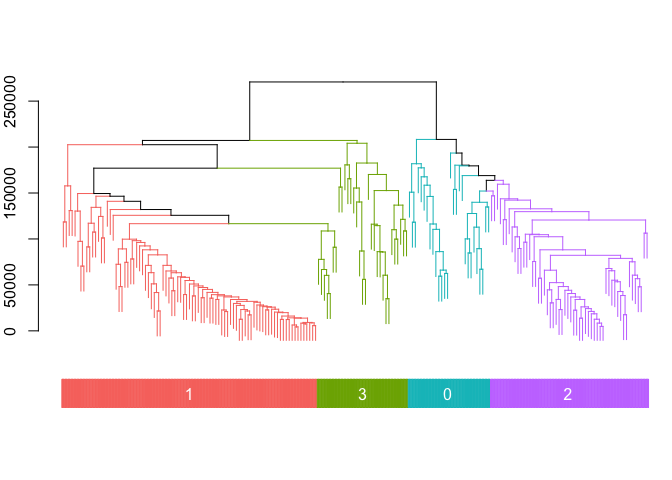
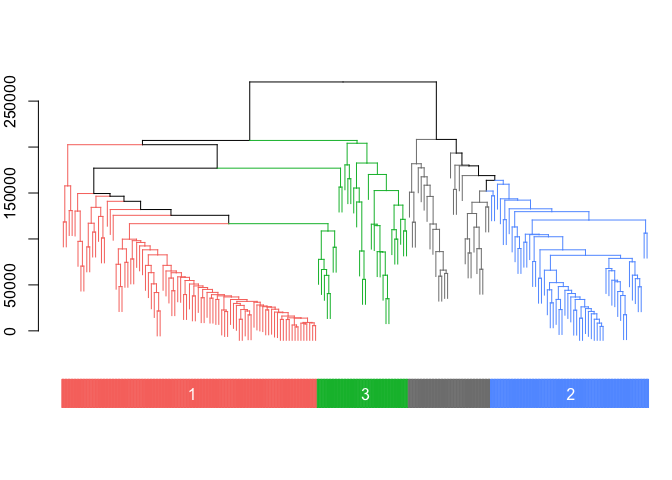
171001

diff --git a/README.md b/README.md
@@ -17,10 +17,12 @@ library(cornet)
 ls("package:cornet")
 ```
 
-    ## [1] "cluster_dat"  "cluster_mat"  "cluster_mine" "corheat"     
-    ## [5] "matoedge"
+    ## [1] "cluster_dat"  "cluster_mat"  "cluster_mine" "corgraph"    
+    ## [5] "corheat"      "matoedge"
 
 ### data
+
+-   正規化した遺伝子発現データ(行:遺伝子, 列:サンプル)
 
 ``` r
 # data: normalized fpkm
@@ -47,7 +49,7 @@ dat[1:6,1:6]; dim(dat)
 -   別手法で作成した距離行列を`as.dist`で変換したdistオブジェクトでも良い
 
 ``` r
-res <- cornet::cluster_mat(dat = dat, distm = "spearman", clm = "average",
+res.clm <- cornet::cluster_mat(dat = dat, distm = "spearman", clm = "average",
                            column = 5:ncol(dat), method_dycut = "tree",
                            x_fctr = dat$days, y_fctr = dat$runs, rep_fctr = dat$reps)
 ```
@@ -56,7 +58,7 @@ res <- cornet::cluster_mat(dat = dat, distm = "spearman", clm = "average",
 
 ``` r
 # cutreeDynamicの結果
-head(res$dynamic_cut)
+head(res.clm$dynamic_cut)
 ```
 
     ## gene266 gene372 gene572 gene906 gene201 gene894 
@@ -64,114 +66,133 @@ head(res$dynamic_cut)
 
 ``` r
 # クラスタ別のデータフレーム
-sapply(res$cluster_dat, dim)
+sapply(res.clm$cluster_dat, dim)
 ```
 
-    ##        1   3   0   2
+    ##        0   1   3   2
     ## [1,] 108 108 108 108
-    ## [2,]  87  31  28  54
+    ## [2,]  28  87  31  54
 
 ``` r
-# クラスタ別の
-res$gg_mat_all
+# クラスタ別のplot
+res.clm$gg_mat_all
 ```
 
 ![](README_files/figure-markdown_github-ascii_identifiers/unnamed-chunk-4-2.png)
 
 ``` r
-res$gg_mat_med
+res.clm$gg_mat_med
 ```
 
 ![](README_files/figure-markdown_github-ascii_identifiers/unnamed-chunk-4-3.png)
 
+### matoedge
+
+-   相関行列のような対称行列から重み付きエッジリスト(完全グラフ)を作成
+
+``` r
+# 相関行列のような対称行列から重み付きエッジリストを作成
+edge.list <- matoedge(cor(res.clm$cluster_dat[[1]]))
+head(edge.list)
+```
+
+    ##     x_id    y_id        value
+    ## 1 gene54 gene442  0.364463358
+    ## 2 gene54 gene222  0.262606491
+    ## 3 gene54 gene568 -0.005069097
+    ## 4 gene54 gene925  0.105762776
+    ## 5 gene54 gene454  0.086375472
+    ## 6 gene54 gene694  0.164309172
+
+#### corgraph
+
+-   相関行列から自動的に閾値を指定してエッジリストを作成する
+-   igraphオブジェクト, エッジリスト, ks-testの結果が返る
+-   エッジリストには相関係数が属性値の列として加えられている(負の相関の情報はここから取る
+-   逆相関のエッジも含めてグラフ作成する場合は、クラスタリングの時に`abspearson`とかを使う
+
+``` r
+# サンプルデータ
+data(cluster_dat)
+
+# 相関係数行列
+cormat <- cor(cluster_dat[[1]])
+
+# グラフ作成
+res <- corgraph(mat = cormat)
+
+# 返り値1. igraphオブジェクト
+(g <- res$undir.graph)
+```
+
+    ## IGRAPH e11306c UN-- 120 1605 -- 
+    ## + attr: name (v/c)
+    ## + edges from e11306c (vertex names):
+    ##  [1] gene158--gene838 gene765--gene118 gene765--gene871 gene765--gene189
+    ##  [5] gene765--gene818 gene838--gene118 gene686--gene770 gene910--gene271
+    ##  [9] gene910--gene416 gene910--gene278 gene910--gene254 gene271--gene510
+    ## [13] gene416--gene510 gene510--gene281 gene271--gene416 gene271--gene278
+    ## [17] gene271--gene964 gene271--gene281 gene271--gene971 gene416--gene278
+    ## [21] gene416--gene281 gene563--gene270 gene563--gene246 gene563--gene920
+    ## [25] gene278--gene563 gene563--gene67  gene563--gene371 gene190--gene220
+    ## [29] gene270--gene190 gene220--gene709 gene220--gene977 gene270--gene220
+    ## + ... omitted several edges
+
+``` r
+# 返り値2. エッジリスト
+head(res$edge.list)
+```
+
+    ##         x_id    y_id     value
+    ## 2567 gene158 gene838 0.9323359
+    ## 3017 gene765 gene118 0.9422020
+    ## 3187 gene765 gene871 0.9342737
+    ## 3188 gene765 gene189 0.9582303
+    ## 3189 gene765 gene818 0.9388109
+    ## 3242 gene118 gene838 0.9547732
+
+``` r
+# 返り値3. ks-testの結果
+head(res$res.ks.text)
+```
+
+    ##   thresh      ks_d ks_p
+    ## 1   0.30 0.8985904    0
+    ## 2   0.31 0.8974663    0
+    ## 3   0.32 0.8897840    0
+    ## 4   0.33 0.8951993    0
+    ## 5   0.34 0.8865022    0
+    ## 6   0.35 0.8853600    0
+
 ### cluster\_mine
 
--   `minerva::mine`の出力を整形, pearsonとspearmanも加える
+-   非線形の関連を見つける。
+-   `minerva::mine`の出力を整形, pearsonとspearmanも加えたdataframeを返す
 
 ``` r
 # mineを連続実行、結果を整形出力
-res.clm <- cluster_mine(cl_dat = res$cluster_dat)
+res.mic <- cluster_mine(cl_dat = res.clm$cluster_dat)
 
-# 
-lapply(res.clm, function(x)x[1:6,])
+# 結果を一部表示
+lapply(res.mic[c(2,4)], function(x)x[1:3,])
 ```
 
     ## $`1`
-    ##         x_id    y_id mic        mas mev      mcn      micr2      gmic
-    ## 3714 gene204 gene655   1 0.03285807   1 2.000000 0.05284526 1.0000000
-    ## 3738  gene67 gene519   1 0.01908699   1 3.000000 0.05036932 0.9935214
-    ## 3731 gene179 gene519   1 0.04402342   1 3.000000 0.06798504 0.9942813
-    ## 3732 gene789  gene67   1 0.04047976   1 3.584963 0.05791981 0.9806749
-    ## 3728 gene179  gene67   1 0.01189086   1 3.000000 0.09046485 0.9930227
-    ## 3737  gene67 gene371   1 0.09622638   1 3.000000 0.02788684 0.9865954
-    ##           tic   pearson  spearman
-    ## 3714 18.12556 0.9732188 0.9794221
-    ## 3738 17.94552 0.9744900 0.9627502
-    ## 3731 17.61939 0.9654092 0.9593205
-    ## 3732 17.51823 0.9706082 0.9639506
-    ## 3728 17.49004 0.9536955 0.9626930
-    ## 3737 17.36597 0.9859580 0.9648080
-    ## 
-    ## $`3`
-    ##        x_id    y_id       mic        mas       mev      mcn      micr2
-    ## 133 gene698 gene380 0.7878513 0.08065127 0.7878513 2.584963 0.14646347
-    ## 438 gene380 gene132 0.7558046 0.13125066 0.7558046 2.584963 0.06480325
-    ## 134 gene698 gene132 0.7189312 0.06435604 0.7189312 2.584963 0.05946409
-    ## 31  gene826  gene62 0.7056530 0.04210850 0.7056530 2.584963 0.06088894
-    ## 80   gene62 gene380 0.6711388 0.05596903 0.6711388 2.584963 0.07683509
-    ## 88  gene266 gene698 0.7124452 0.16418719 0.7124452 2.584963 0.05858157
-    ##          gmic       tic    pearson   spearman
-    ## 133 0.7074252 11.867889 -0.8008670 -0.8240114
-    ## 438 0.6789852 11.021268  0.8312649  0.8333095
-    ## 134 0.6274129 10.673320 -0.8120758 -0.7986891
-    ## 31  0.6211462 10.319357  0.8029720  0.6412873
-    ## 80  0.5832082  9.912205 -0.7709110 -0.7772633
-    ## 88  0.6230904  9.821684  0.8086183  0.8068250
-    ## 
-    ## $`0`
-    ##        x_id    y_id       mic        mas       mev      mcn      micr2
-    ## 259 gene331 gene485 0.6061471 0.02817255 0.6061471 2.000000 0.18818752
-    ## 227 gene754 gene331 0.5795805 0.03755272 0.5795805 2.000000 0.17060362
-    ## 226 gene754 gene944 0.5517252 0.05668312 0.5517252 2.000000 0.04258118
-    ## 373 gene958 gene241 0.5642428 0.08287044 0.5642428 2.000000 0.11962117
-    ## 244 gene944 gene485 0.5685831 0.07183381 0.5685831 2.584963 0.10390175
-    ## 228 gene754 gene485 0.5377324 0.14018524 0.5377324 2.000000 0.03607627
-    ##          gmic      tic   pearson  spearman
-    ## 259 0.5296532 8.852612 0.6464979 0.7024589
-    ## 227 0.5013204 8.207523 0.6395130 0.7129288
-    ## 226 0.4767254 8.033038 0.7135433 0.7166157
-    ## 373 0.4690225 7.565197 0.6667995 0.6806330
-    ## 244 0.4354489 7.338720 0.6816754 0.6876542
-    ## 228 0.4733235 7.324082 0.7082768 0.6938847
+    ##         x_id    y_id mic        mas mev mcn      micr2      gmic      tic
+    ## 3714 gene204 gene655   1 0.03285807   1   2 0.05284526 1.0000000 18.12556
+    ## 3738  gene67 gene519   1 0.01908699   1   3 0.05036932 0.9935214 17.94552
+    ## 3731 gene179 gene519   1 0.04402342   1   3 0.06798504 0.9942813 17.61939
+    ##        pearson  spearman
+    ## 3714 0.9732188 0.9794221
+    ## 3738 0.9744900 0.9627502
+    ## 3731 0.9654092 0.9593205
     ## 
     ## $`2`
     ##         x_id    y_id       mic        mas       mev      mcn       micr2
     ## 1280 gene850 gene558 0.9744918 0.02346228 0.9744918 3.807355 0.008202131
     ## 1296 gene491 gene558 1.0000000 0.01791730 1.0000000 4.000000 0.059638626
     ## 1279 gene850 gene491 0.9744918 0.06201446 0.9744918 3.321928 0.052296549
-    ## 981  gene507 gene558 1.0000000 0.09008929 1.0000000 3.000000 0.250265011
-    ## 1109 gene572 gene900 1.0000000 0.03026810 1.0000000 3.584963 0.141137013
-    ## 1245 gene651 gene558 1.0000000 0.03673405 1.0000000 4.000000 0.123150137
     ##           gmic      tic   pearson  spearman
     ## 1280 0.9343362 17.28197 0.9830003 0.9613498
     ## 1296 0.9452102 16.93374 0.9697223 0.9770309
     ## 1279 0.9407437 16.76802 0.9603100 0.9584441
-    ## 981  0.9935214 16.48217 0.8658724 0.8620424
-    ## 1109 0.9611421 16.45482 0.9267486 0.8917850
-    ## 1245 0.9404114 16.26148 0.9364026 0.9300066
-
-### matoedge
-
-``` r
-# 相関行列のような対称行列から重み付きエッジリストを作成
-edge.list <- matoedge(cor(res$cluster_dat[[1]]))
-head(edge.list)
-```
-
-    ##      x_id    y_id       value
-    ## 1 gene478 gene315 0.371799358
-    ## 2 gene478 gene438 0.216129367
-    ## 3 gene478 gene324 0.419083487
-    ## 4 gene478 gene707 0.077285184
-    ## 5 gene478  gene23 0.009250348
-    ## 6 gene478 gene200 0.200931931
